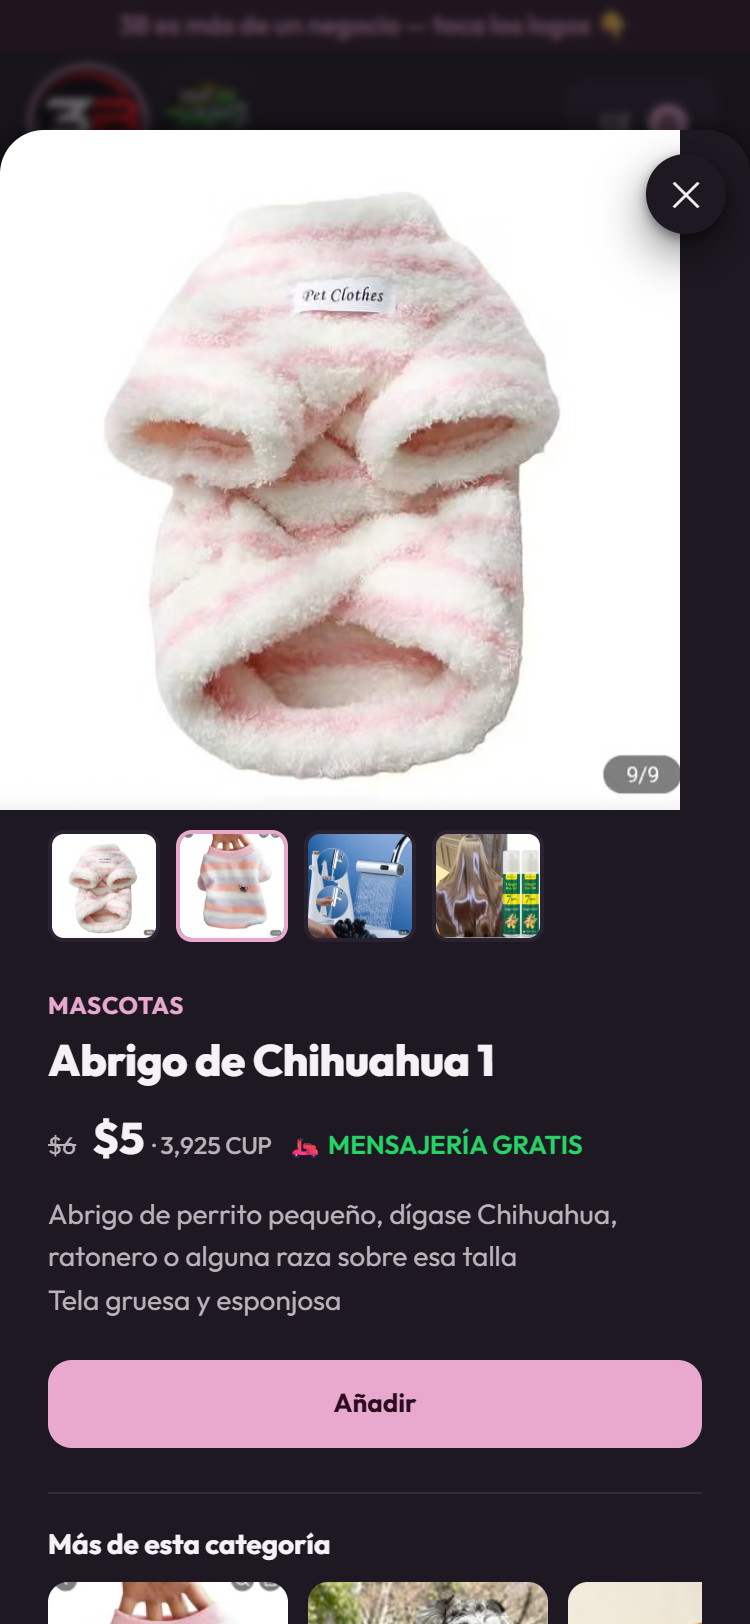
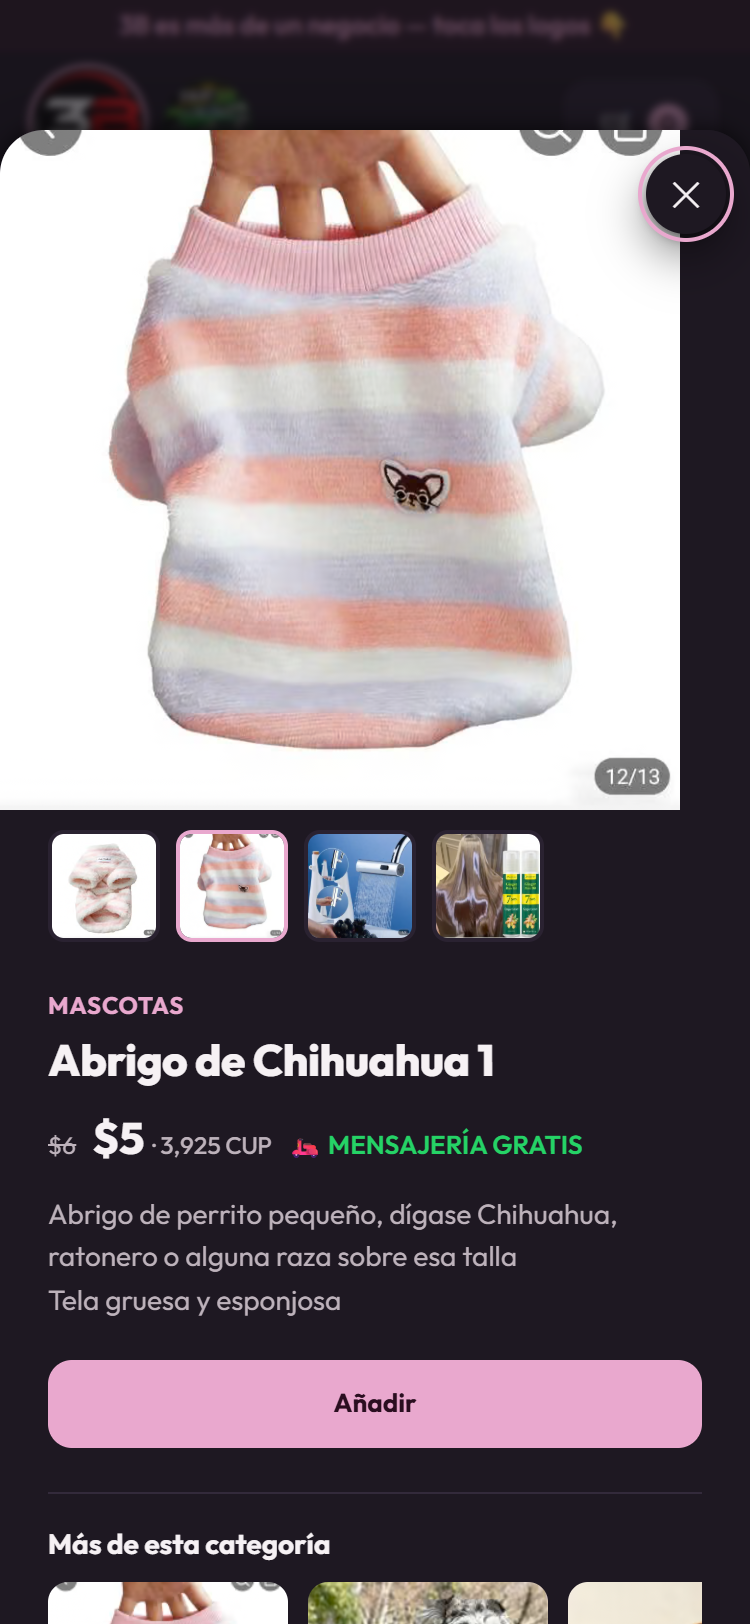
tienda: touch-action pan-y en la foto de la ficha, para que el dedo pase las fotos
Sin esto Chrome reclama el paneo horizontal y cancela el gesto (pointercancel).
El desplazamiento vertical sigue siendo del navegador. Captura e informe corregidos.

diff --git a/estilos.css b/estilos.css
@@ -758,7 +758,13 @@ body.con-barra-movil{padding-bottom:var(--barra-movil-h, 84px)}
   position:absolute;top:12px;right:12px;z-index:2;width:40px;height:40px;border:none;border-radius:50%;
   background:var(--surface);color:var(--text);font-size:18px;cursor:pointer;box-shadow:var(--sombra-2);
 }
-.modal-foto{aspect-ratio:1;max-height:340px;background:var(--surface-2)}
+/* touch-action:pan-y — el paneo VERTICAL sigue siendo del navegador (la ficha se
+   desplaza con el dedo encima de la foto, comprobado: scrollTop 0 → 235) y el
+   HORIZONTAL queda para el gesto de pasar fotos. Sin esto Chrome reclama el paneo
+   horizontal aunque no haya nada que desplazar y mata el gesto con 'pointercancel'
+   (medido el 2026-10-13: fallaban los tres primeros puntos de la prueba).
+   🔴 Esto NO es preventDefault(): eso sí rompería el desplazamiento y sigue prohibido. */
+.modal-foto{aspect-ratio:1;max-height:340px;background:var(--surface-2);touch-action:pan-y}
 .modal-foto img{width:100%;height:100%;object-fit:cover;display:block;-webkit-user-drag:none;user-select:none;-webkit-user-select:none}
 /* Tira de miniaturas de la ficha. Se arrastra en movil; a 375px entran cuatro y media,
    asi que se ve que hay mas sin tener que explicarlo. */

diff --git a/docs/informes/2026-10-13-galeria-deslizar-con-el-dedo.md b/docs/informes/2026-10-13-galeria-deslizar-con-el-dedo.md
@@ -1,67 +1,64 @@
-# Galería: pasar fotos deslizando — Tasks 1-3 hechas, FALLA con el dedo; Task 4 NO hecha
+# Galería: pasar las fotos deslizando el dedo (con `touch-action: pan-y`)
 
 Plan: `docs/superpowers/plans/2026-10-13-galeria-deslizar-con-el-dedo.md`. Sin push.
 
-## Resultado en una línea
+## Historia completa
 
-El código del plan **funciona con el ratón y no funciona con el dedo**: con un deslizamiento táctil
-horizontal, Chrome emite `pointercancel` y la foto no cambia. El desplazamiento vertical sí se
-conserva (punto 4 OK). Se paró antes de la Task 4 (caché) a propósito: no se publica algo que en el
-teléfono no pasa la foto.
+1. Se implementó el plan tal cual (Tasks 1-2): aritmética pura en `galeria.js` + eventos de puntero
+   sobre `.modal-foto` en `app.js`, **sin** `preventDefault()` y **sin** tocar `touch-action`.
+2. Al probarlo con un dedo simulado (`Input.dispatchTouchEvent` en el Chrome del sistema, 375 px)
+   **falló**: un deslizamiento horizontal acababa en `pointercancel` y la foto no cambiaba (puntos
+   1, 2 y 3). El ratón sí funcionaba. El desplazamiento vertical se conservaba.
+3. **Causa:** con `touch-action: auto`, Chrome reclama el paneo del dedo aunque en esa dirección no
+   haya nada que desplazar, y cancela el puntero. El plan se equivocaba al suponer que solo cancelaría
+   en vertical; prohibía tocar `touch-action` mezclándolo con `preventDefault()`, que son cosas
+   distintas.
+4. **Arreglo:** `touch-action: pan-y` en `.modal-foto` (`estilos.css`). Es declarativo: el paneo
+   vertical sigue siendo del navegador, el horizontal llega al script. No es `preventDefault()`
+   (ese sigue prohibido: rompería el desplazamiento). Autorizado por el dueño del plan.
+5. Se repitió la prueba contra el código real del repo (no inyectado): todo en verde.
 
-## Qué se cambió (commits `f5091d6` y `556497b`)
+## Qué se cambió
 
 - `galeria.js`: `pasoDelGesto`, `indiceSiguiente` (puras) + `test/galeria.test.js` (8 pruebas).
-  Adaptación al plan: la línea de importación del test no coincidía con el archivo real
-  (`const { fotosDe: fotosDeVm } = ...`); se amplió esa línea en vez de la que citaba el plan.
-- `app.js`: `engancharGestoGaleria()` (pointerdown/pointerup/pointercancel sobre `.modal-foto`),
-  llamada una vez en `iniciar()`. `estilos.css`: `-webkit-user-drag:none;user-select:none` en la foto.
-  `index.html`: `draggable="false"`.
-- `catalogo.json` se tocó solo para probar y se restauró (`git checkout --`).
+  (La línea de importación del test no coincidía con la que citaba el plan; se amplió la real,
+  `const { fotosDe: fotosDeVm } = ...`.)
+- `app.js`: `engancharGestoGaleria()` (pointerdown / pointerup / pointercancel), llamada una vez
+  en `iniciar()`.
+- `estilos.css`: `-webkit-user-drag:none;user-select:none` en la foto y `touch-action:pan-y` en `.modal-foto`.
+- `index.html`: `draggable="false"` en la foto.
+- `sw.js`: `CACHE` a `tienda-3b-v2` (app.js y estilos.css están en el `ARMAZON`).
+- `catalogo.json`: tocado solo para probar (3 fotos extra a un producto) y restaurado.
 
-## Tests (`node --test`, observado)
+## Tests (`node --test`)
 
-Antes: tests 48, pass 48, fail 0, exit 0. Tras Task 1 sin implementar: 56 tests, 8 fail (`pasoDelGesto is not a function`).
-Después: tests 56, pass 56, fail 0, exit 0.
+Antes: 48 tests, 48 pass. Con las pruebas nuevas sin implementar: 56 tests, 8 fail
+(`pasoDelGesto is not a function`). Después: 56 tests, 56 pass, 0 fail, exit 0.
 
-## Los 7 puntos (Chrome del sistema + puppeteer-core, viewport 375x667, `Input.dispatchTouchEvent` = dedo)
+## Los puntos de la Task 3 (Chrome del sistema, 375x667, `Input.dispatchTouchEvent`, código real del repo)
 
-Producto de prueba con 4 fotos (1 + 3 extra inyectadas en `catalogo.json`) y otro sin extras.
+`getComputedStyle(.modal-foto).touchAction` = `pan-y`. Producto de prueba con 4 fotos y otro sin extras.
 
-| # | Qué | Observado |
-|---|---|---|
-| 1 | Dedo a la izquierda -> siguiente | FALLA: `pointerdown,pointermove,pointercancel`; idx 0->0 |
-| 2 | Dedo a la derecha -> anterior | FALLA: igual, `pointercancel` |
-| 3 | Da la vuelta desde la última | FALLA: no se puede ni llegar a la última (idx siempre 0) |
-| 4 | Dedo ARRIBA sobre la foto desplaza la ficha | OK: `scrollTop` 0->235 (el desplazable es `.modal-caja`), `pointercancel`, foto sin cambiar |
-| 5 | Toque no cambia nada | OK: `pointerdown,pointerup`, idx 0->0 |
-| 6 | Sin fotos extra | OK: deslizar izq no hace nada; arriba desplaza (0->235) |
-| 7 | Escritorio, ratón | OK: arrastre izq 0->1, der 1->0, clic simple sin cambio; `draggable="false"`, `-webkit-user-drag:none`, `dragstart` no disparado |
+| # | Qué | Antes (auto) | Ahora (pan-y) |
+|---|---|---|---|
+| 1 | Dedo a la izquierda -> siguiente | FALLABA (`pointercancel`, 0->0) | OK: 0->1, miniatura 0->1, `pointerup` |
+| 2 | Dedo a la derecha -> anterior | FALLABA | OK: 1->0 |
+| 3 | Da la vuelta desde la última | FALLABA | OK: 0->3 con tres deslizamientos y 3->0 con el cuarto |
+| 4 | Dedo ARRIBA sobre la foto desplaza la ficha | OK (0->235) | OK: `scrollTop` 0->235, `pointercancel`, la foto no cambia |
+| 5 | Un toque no cambia nada | OK | OK: `pointerdown,pointerup`, 0->0 |
+| 6 | Sin fotos extra: deslizar no hace nada y la página sigue desplazándose | OK | OK: izquierda 0->0; arriba `scrollTop` 0->255 |
+| 7 | Escritorio, ratón (sin el fantasma de la imagen) | OK | Con el código previo al `pan-y`: OK (0->1, 1->0, clic sin cambio, `dragstart` no disparado, `draggable="false"`). No se repitió tras el `pan-y`: `touch-action` no afecta al ratón. |
 
-Con `Input.synthesizeScrollGesture` (también táctil) el horizontal SÍ pasaba la foto (`pointerup`),
-pero ese mismo método NO desplazó la ficha en vertical (scrollTop 0->0, sin `pointercancel`): no
-pasa por el mismo camino de desplazamiento que un dedo real y se descartó como prueba.
-
-## Experimento (NO commiteado, solo inyectado en la página)
-
-Añadiendo `.modal-foto{touch-action:pan-y}`: 1, 2 y 3 pasan (0->1, 1->0, vuelta 3->0, con
-`pointerup`), el 4 sigue desplazando (0->235, `pointercancel`), 5 y 6 igual. Es la receta estándar
-(el navegador se queda el vertical; el horizontal llega al script). El plan prohíbe tocar
-`touch-action` (punto 1 de «Lo que hace que esto salga bien o mal»); la premisa era que un
-horizontal sin nada que desplazar no cancelaría, y en Chrome sí cancela. Decide el dueño.
+(El desplazable de la ficha es `.modal-caja`, no la ventana.)
 
 ## Captura
 
-`docs/informes/2026-10-13-galeria-deslizar-375px.png`: ficha a 375 px de ancho tras un arrastre
-**con ratón** (miniatura 2/4 marcada). NO es un deslizamiento táctil. Nota aparte, anterior a este
-cambio: la foto grande mide 340 px y a 375 px deja una franja a la derecha (`max-height:340px` +
-`aspect-ratio:1`).
+`docs/informes/2026-10-13-galeria-deslizar-375px.png`: ficha a 375 px tras un deslizamiento **con
+dedo simulado** (`dispatchTouchEvent`): pasó de la foto 1 a la 2 de 4 y la miniatura 2 queda marcada.
+Nota anterior a este cambio: la foto grande mide 340 px y a 375 px deja una franja a la derecha
+(`max-height:340px` + `aspect-ratio:1`).
 
 ## ⚠ NO VERIFICADO
 
-- Cualquier gesto en un teléfono real (solo se simuló en Chrome de escritorio; `dispatchTouchEvent`
-  es lo más cercano a un dedo que había, pero no es un dedo).
-- Task 4: `CACHE` sigue en `tienda-3b-v1` en `sw.js`. Hay que subirla a `tienda-3b-v2` antes de
-  publicar cualquier versión de este cambio (app.js y estilos.css están en el `ARMAZON`).
-- La prueba de escritorio con `touch-action:pan-y` no se completó (tiempo de navegación agotado en
-  una máquina corta de RAM); el ratón ya estaba verificado con el código del repo.
+- **Ningún gesto en un teléfono real; todo simulado en Chrome de escritorio.**
+- El punto 7 (ratón) no se repitió tras añadir `pan-y`.
